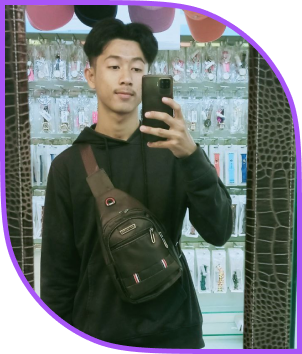
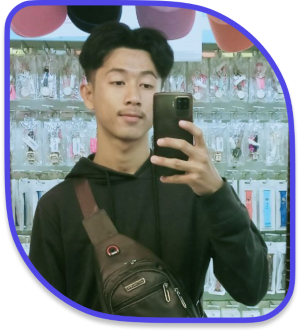
add pagination

diff --git a/src/components/Header.js b/src/components/Header.js
@@ -1,6 +1,6 @@
 import React, { useState, useEffect } from "react";
 import { Squash as Hamburger } from "hamburger-react";
-import { motion } from "framer-motion";
+import { motion } from "framer-motion"
 
 const tabs = ["Home", "Skills", "Projects", "Contact"];
 
@@ -70,12 +70,10 @@ const Header = () => {
     
   };
 
-
-
   return (
     <div className="w-[100vw] md:w-auto justify-self-center h-12 flex items-center p-8 justify-end md:justify-center mt-4 z-[99]">
       <div className="md:hidden block">
-        <div className={`fixed top-4 right-4 bg-purple-500 hover:bg-purple-400 p-[2px]  z-20 ${menuOpen ? 'rounded-bl-md rounded-tr-md' : 'rounded-md'}`}>
+        <div className={`fixed top-4 right-4 bg-indigo-600 hover:bg-indigo-600 p-[2px]  z-20 ${menuOpen ? 'rounded-bl-md rounded-tr-md' : 'rounded-md'}`}>
           <Hamburger toggled={menuOpen} toggle={handleToggle}  size={28} />
         </div>
         <div
@@ -84,13 +82,13 @@ const Header = () => {
             width: menuOpen ? "calc(100vw - 2rem)" : "0",
             height: menuOpen ? "calc(100dvh - 2rem)": "0",
             overflow: "hidden",
-            transition: "width 0.3s ease-in-out, height 0.3s ease"
+            transition: "width 0.3s ease-in-out, height 0.3s ease" 
           }}
         >
           <ul className=" flex flex-col gap-4">
             {tabs.map((tab) => (
               <li key={tab} className="text-5xl text-left font-semibold">
-                <a href={`#${tab.toLowerCase()}-anchor`} onClick={() => handleTabClick(tab)}>
+                <a href={`#${tab.toLowerCase()}-anchor`} onClick={() => handleTabClick(tab)} >
                   {tab}.
                 </a>
               </li>

diff --git a/src/components/Home.js b/src/components/Home.js
@@ -7,9 +7,9 @@ function Home() {
     <div className="text-white md:flex grid  justify-center items-center px-4 gap-4  z-0 overflow-hidden" >
   <div className="home-content flex flex-col gap-4 p-4 md:p-8" data-aos="fade-up-20">
     <h1 className="text-4xl md:text-6xl lg:text-7xl font-extrabold font-sans text-left">
-      Hello, I'm Songhy<span className="text-purple-500">.</span>
+      Hello, I'm Songhy<span className="text-indigo-600">.</span>
     </h1>   
-    <h2 className="text-2xl md:text-4xl font-bold  text-left">I'm a <span className="text-purple-500">Computer Science student</span></h2>
+    <h2 className="text-2xl md:text-4xl font-bold  text-left">I'm a <span className="text-indigo-600">Computer Science student</span></h2>
     <h2 className="text-lg md:text-xl font-medium  text-left ">
       I spend my day focus on <br />
       Graphic Design & Web Development{" "}
@@ -18,7 +18,7 @@ function Home() {
       <a>
         <svg
           xmlns="http://www.w3.org/2000/svg"
-          className="hover:fill-purple-500"
+          className="hover:fill-indigo-600"
           width="2.5rem"
           height="2.5rem"
           viewBox="0 0 24 24"
@@ -32,7 +32,7 @@ function Home() {
       <a>
         <svg
           xmlns="http://www.w3.org/2000/svg"
-          className="hover:fill-purple-500"
+          className="hover:fill-indigo-600"
           fill="#FFFFFF"
           width="2.5rem"
           height="2.5rem"
@@ -43,7 +43,7 @@ function Home() {
       </a>
     </div>
   </div>
-  <div className="">
+  <div className="flex justify-center">
   <img data-aos="fade-up-20" src={pf} className="w-auto object-cover h-fit" alt="Profile" /></div>
 </div>
 

diff --git a/src/components/Project.js b/src/components/Project.js
@@ -15,6 +15,8 @@ import { Swiper, SwiperSlide } from "swiper/react";
 import "swiper/css";
 import AOS from 'aos';
 import 'aos/dist/aos.css'; 
+import 'swiper/css/pagination';
+import {Pagination} from 'swiper/modules';
 
 function Project() {
   useEffect(() => {
@@ -63,7 +65,9 @@ function Project() {
           Web Development
         </h2>
         <Swiper
-          className="text-black flex gap-8 w-[100%] mySwiper"
+          className="text-black flex gap-8 w-[100%] mySwiper !pb-10"
+          modules={[Pagination]}
+          pagination={{ clickable: true }}
           spaceBetween={20}
           slidesPerView={1}
           breakpoints={{
@@ -133,7 +137,9 @@ function Project() {
           Graphic Design
         </h2>
         <Swiper
-          className="text-black flex gap-8 w-[100%] mySwiper "
+          className="text-black flex gap-8 w-[100%] mySwiper !pb-10"
+          modules={[Pagination]}
+          pagination={{ clickable: true }}
           spaceBetween={20}
           slidesPerView={1}
           breakpoints={{
@@ -199,7 +205,9 @@ function Project() {
           Figma Design
         </h2>
         <Swiper
-          className="text-black flex gap-8 w-[100%] mySwiper"
+          className="text-black flex gap-8 w-[100%] mySwiper !pb-10"
+          modules={[Pagination]}
+          pagination={{ clickable: true }}
           spaceBetween={20}
           slidesPerView={1}
           breakpoints={{

diff --git a/src/components/Skill.js b/src/components/Skill.js
@@ -1,8 +1,10 @@
 import { Swiper, SwiperSlide } from 'swiper/react';
+import {Pagination} from 'swiper/modules';
 import React, { useEffect } from 'react';
 import AOS from 'aos';
 import 'aos/dist/aos.css'; 
 import 'swiper/css';
+import 'swiper/css/pagination';
 
 export default () => {
   useEffect(() => {
@@ -49,7 +51,9 @@ export default () => {
     <div className="flex justify-center items-center">
       <h2 className="text-4xl font-semibold" data-aos="fade-up-20" data-aos-offset="130">Skills</h2>
     </div>
-    <Swiper className='grid grid-cols-3 w-[100%] z-10'
+    <Swiper className='grid grid-cols-3 w-[100%] z-10 !pb-10'
+      modules={[Pagination]}
+      pagination={{ clickable: true }}
       spaceBetween={50}
       slidesPerView={1}
       breakpoints={{
@@ -207,6 +211,7 @@ export default () => {
             </div>
           </div>
         </SwiperSlide>
+        
     </Swiper>
     </div>
   );

diff --git a/src/App.css b/src/App.css
@@ -17,7 +17,7 @@
 
 .square {
 
-  width: calc(100% / 6); 
+  width: calc(100% / 5); 
   height: calc(100vh / 10); 
   float: left; 
   border: #484A6F 0.3px solid;
@@ -54,7 +54,7 @@ img {
   top: 1rem;
   right:1rem;
   border-radius: 6px;
-  background-color: #a855f7;
+  background-color: #4f46e5;
   transition: all 0.3s ease-in-out; 
 }
 
@@ -73,4 +73,9 @@ img {
       transform: translateY(0) !important;
     }
   
+}
+
+.swiper-pagination span.swiper-pagination-bullet {
+background-color: #4f46e5 !important;
+/* z-index: 999; */
 }
